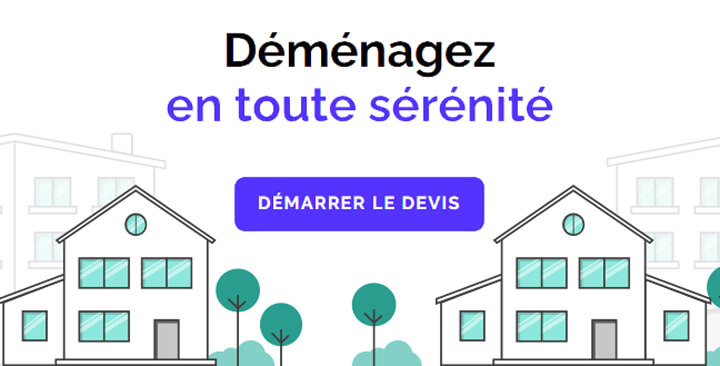
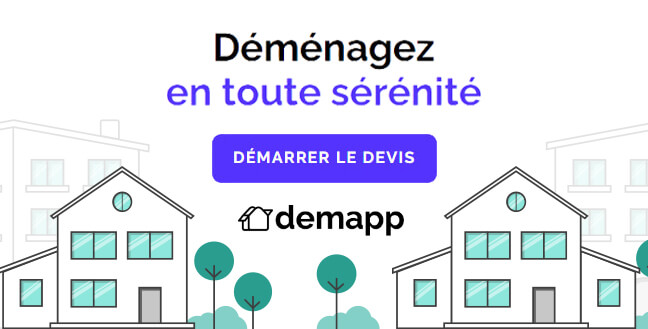
Remove image

diff --git a/src/components/MesRealisationsPage1.js b/src/components/MesRealisationsPage1.js
@@ -6,7 +6,7 @@ import associationBabel from '../img/association-babel.jpg';
 import trim from '../img/trim.jpg';
 import sushiParlour from '../img/sushi-parlour.jpg';
 import skinGenius from "../img/skin-genius.jpg";
-import demapp from "../img/demapp2.jpg";
+import demapp from "../img/demapp.jpg";
 import lucatelli from "../img/lucatelli.jpg";
 import ravize from "../img/ravize.jpg";
 import faceArchitect from "../img/face-architect.jpg";
